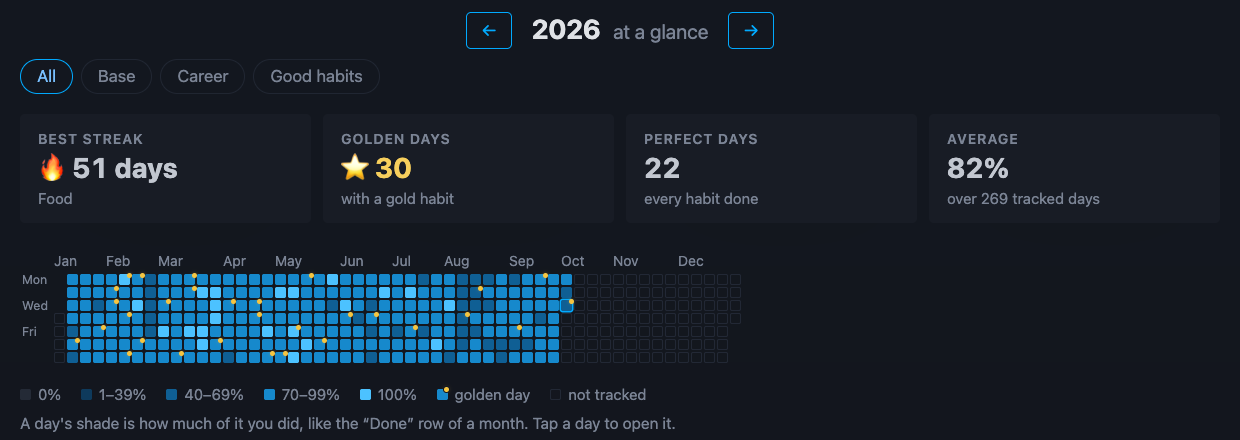
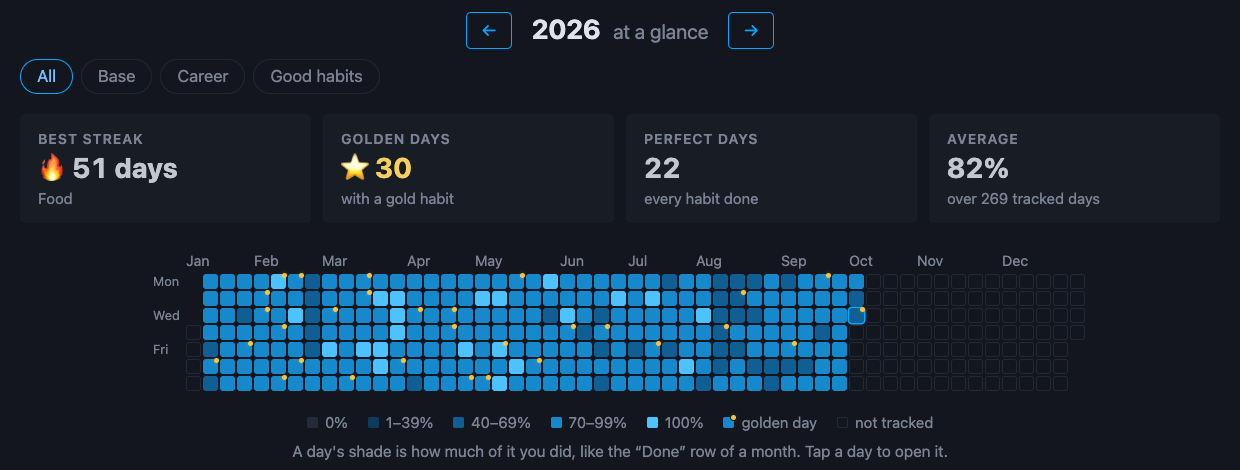
Year page: larger week strip (up to 15px squares), centred with its legend
Squares shrink to fit narrower screens; phones keep the twelve small calendars.
README year screenshots (dark and light) updated.

diff --git a/app/static/style.css b/app/static/style.css
@@ -533,12 +533,20 @@ body { transition: background-color .25s, color .25s; }
 }
 a.yc:hover, a.yc:focus-visible { outline: 1.5px solid var(--pico-color); outline-offset: 1px; }
 
+/* The week strip is centred, with squares up to 15px that shrink to fit narrower screens. */
+.year-grid { container-type: inline-size; }
 .year-scroll { overflow-x: auto; padding: 2px; }
-.year-strip { display: grid; grid-template-columns: auto auto; gap: 4px 6px; width: max-content; }
-.ys-months { grid-column: 2; display: grid; grid-template-columns: repeat(var(--weeks), 13px); font-size: .7rem; color: var(--pico-muted-color); height: 1rem; }
+.year-strip {
+  --yc: clamp(10px, calc((100cqi - 44px) / 53 - 2px), 15px);
+  display: grid; grid-template-columns: auto auto; gap: 4px 6px; width: max-content; margin-inline: auto;
+}
+.ys-months { grid-column: 2; display: grid; grid-template-columns: repeat(var(--weeks), calc(var(--yc) + 2px)); font-size: .72rem; color: var(--pico-muted-color); height: 1rem; }
 .ys-months span { white-space: nowrap; }
-.ys-wd { display: grid; grid-template-rows: repeat(7, 11px); gap: 2px; font-size: .62rem; line-height: 11px; color: var(--pico-muted-color); }
-.ys-weeks { display: grid; grid-auto-flow: column; grid-template-rows: repeat(7, 11px); grid-auto-columns: 11px; gap: 2px; }
+.ys-wd { display: grid; grid-template-rows: repeat(7, var(--yc)); gap: 2px; font-size: .64rem; line-height: var(--yc); color: var(--pico-muted-color); }
+.ys-weeks { display: grid; grid-auto-flow: column; grid-template-rows: repeat(7, var(--yc)); grid-auto-columns: var(--yc); gap: 2px; }
+.ys-weeks .yc { width: var(--yc); height: var(--yc); border-radius: 3px; }
+.year-grid .year-legend { justify-content: center; }
+.year-grid .year-note { text-align: center; }
 .year-months { display: none; }
 .year-legend { list-style: none; display: flex; flex-wrap: wrap; gap: .3rem 1rem; padding: 0; margin: .9rem 0 .3rem; font-size: .75rem; color: var(--pico-muted-color); }
 .year-legend li { list-style: none; display: flex; align-items: center; gap: .35rem; margin: 0; }
@@ -606,6 +614,8 @@ a.yc:hover, a.yc:focus-visible { outline: 1.5px solid var(--pico-color); outline
   .ym-name { font-size: .72rem; font-weight: 600; color: var(--pico-muted-color); }
   .ym-days { display: grid; grid-template-columns: repeat(7, 13px); gap: 2px; }
   .ym .yc { width: 13px; height: 13px; border-radius: 3px; }
+  .year-grid .year-legend { justify-content: flex-start; }
+  .year-grid .year-note { text-align: left; }
 
   /* Month grid: each habit is its name on one line and its checks on the next, so the days get
      the whole width (~9 visible instead of 3). Every row is a grid of --days equal columns; the
